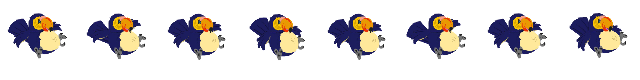
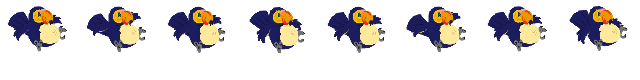
palm and toufat animations added

Changed region(s): [[0.0, 0.075, 1.0, 0.75]]

diff --git a/MangoMambo/Development/players/character.js b/MangoMambo/Development/players/character.js
@@ -140,12 +140,12 @@ class Character extends Phaser.GameObjects.Sprite{
                 this.anim[0] = "palm_idle";
                 this.anim[1] = "palm_walk";
                 this.anim[2] = "palm_jump";
-                // this.scene.anims.create({
-                //     key: 'palm_idle',
-                //     frames: this.scene.anims.generateFrameNumbers('dino_idle', { start: 0, end: 7 }),
-                //     frameRate: 9,
-                //     repeat: -1
-                // });
+                this.scene.anims.create({
+                    key: 'palm_idle',
+                    frames: this.scene.anims.generateFrameNumbers('palm_idle', { start: 0, end: 7 }),
+                    frameRate: 9,
+                    repeat: -1
+                });
                 this.scene.anims.create({
                     key: 'palm_walk',
                     frames: this.scene.anims.generateFrameNumbers('palm_walk', { start: 0, end: 7 }),
@@ -186,6 +186,18 @@ class Character extends Phaser.GameObjects.Sprite{
                 this.anim[0] = "lemur_idle";
                 this.anim[1] = "lemur_walk";
                 this.anim[2] = "lemur_jump";
+                // this.scene.anims.create({
+                //     key: 'lemur_idle',
+                //     frames: this.scene.anims.generateFrameNumbers('lemur_idle', { start: 0, end: 7 }),
+                //     frameRate: 9,
+                //     repeat: -1
+                // });
+                // this.scene.anims.create({
+                //     key: 'lemur_walk',
+                //     frames: this.scene.anims.generateFrameNumbers('lemur_walk', { start: 0, end: 7 }),
+                //     frameRate: 9,
+                //     repeat: -1
+                // });
                 break;
             case "toufat":
                 this.colliderSize = [25, 20];
@@ -197,6 +209,18 @@ class Character extends Phaser.GameObjects.Sprite{
                 this.anim[0] = "toufat_idle";
                 this.anim[1] = "toufat_walk";
                 this.anim[2] = "toufat_jump";
+                this.scene.anims.create({
+                    key: 'toufat_idle',
+                    frames: this.scene.anims.generateFrameNumbers('toufat_idle', { start: 0, end: 7 }),
+                    frameRate: 9,
+                    repeat: -1
+                });
+                this.scene.anims.create({
+                    key: 'toufat_walk',
+                    frames: this.scene.anims.generateFrameNumbers('toufat_walk', { start: 0, end: 7 }),
+                    frameRate: 9,
+                    repeat: -1
+                });
                 break;
             default:
                 this.colliderSize = [,];

diff --git a/MangoMambo/Development/scenes/level_1.js b/MangoMambo/Development/scenes/level_1.js
@@ -49,15 +49,15 @@ class Level1 extends Phaser.Scene {
         this.load.image("lemur", "./Design/Characters/Lemur/lemur_idle_00.png");
         // Se cargan las animaciones de los personajes
         // Palm
-        // this.load.spritesheet('palm_idle', './Design/Characters/Palm/palm_idle.png',
-        // {
-        //     frameWidth: 80,
-        //     frameHeight: 80 
-        // });
+        this.load.spritesheet('palm_idle', './Design/Characters/Palm/palm_idle.png',
+        {
+            frameWidth: 80,
+            frameHeight: 80 
+        });
         this.load.spritesheet('palm_walk', './Design/Characters/Palm/palm_walk.png',
         {
-            frameWidth: 64,
-            frameHeight: 64 
+            frameWidth: 80,
+            frameHeight: 80 
         });
         // Dino
         this.load.spritesheet('dino_idle', './Design/Characters/Dino/dino_idle.png',
@@ -66,6 +66,28 @@ class Level1 extends Phaser.Scene {
             frameHeight: 80 
         });
         this.load.spritesheet('dino_walk', './Design/Characters/Dino/dino_walk.png',
+        {
+            frameWidth: 80,
+            frameHeight: 80 
+        });
+        // Lemur
+        // this.load.spritesheet('lemur_idle', './Design/Characters/Lemur/lemur_idle.png',
+        // {
+        //     frameWidth: 80,
+        //     frameHeight: 80 
+        // });
+        // this.load.spritesheet('lemur_walk', './Design/Characters/Lemur/lemur_walk.png',
+        // {
+        //     frameWidth: 80,
+        //     frameHeight: 80 
+        // });
+        // Toufat
+        this.load.spritesheet('toufat_idle', './Design/Characters/Toucan/toufat_idle.png',
+        {
+            frameWidth: 80,
+            frameHeight: 80 
+        });
+        this.load.spritesheet('toufat_walk', './Design/Characters/Toucan/toufat_walk.png',
         {
             frameWidth: 80,
             frameHeight: 80 
